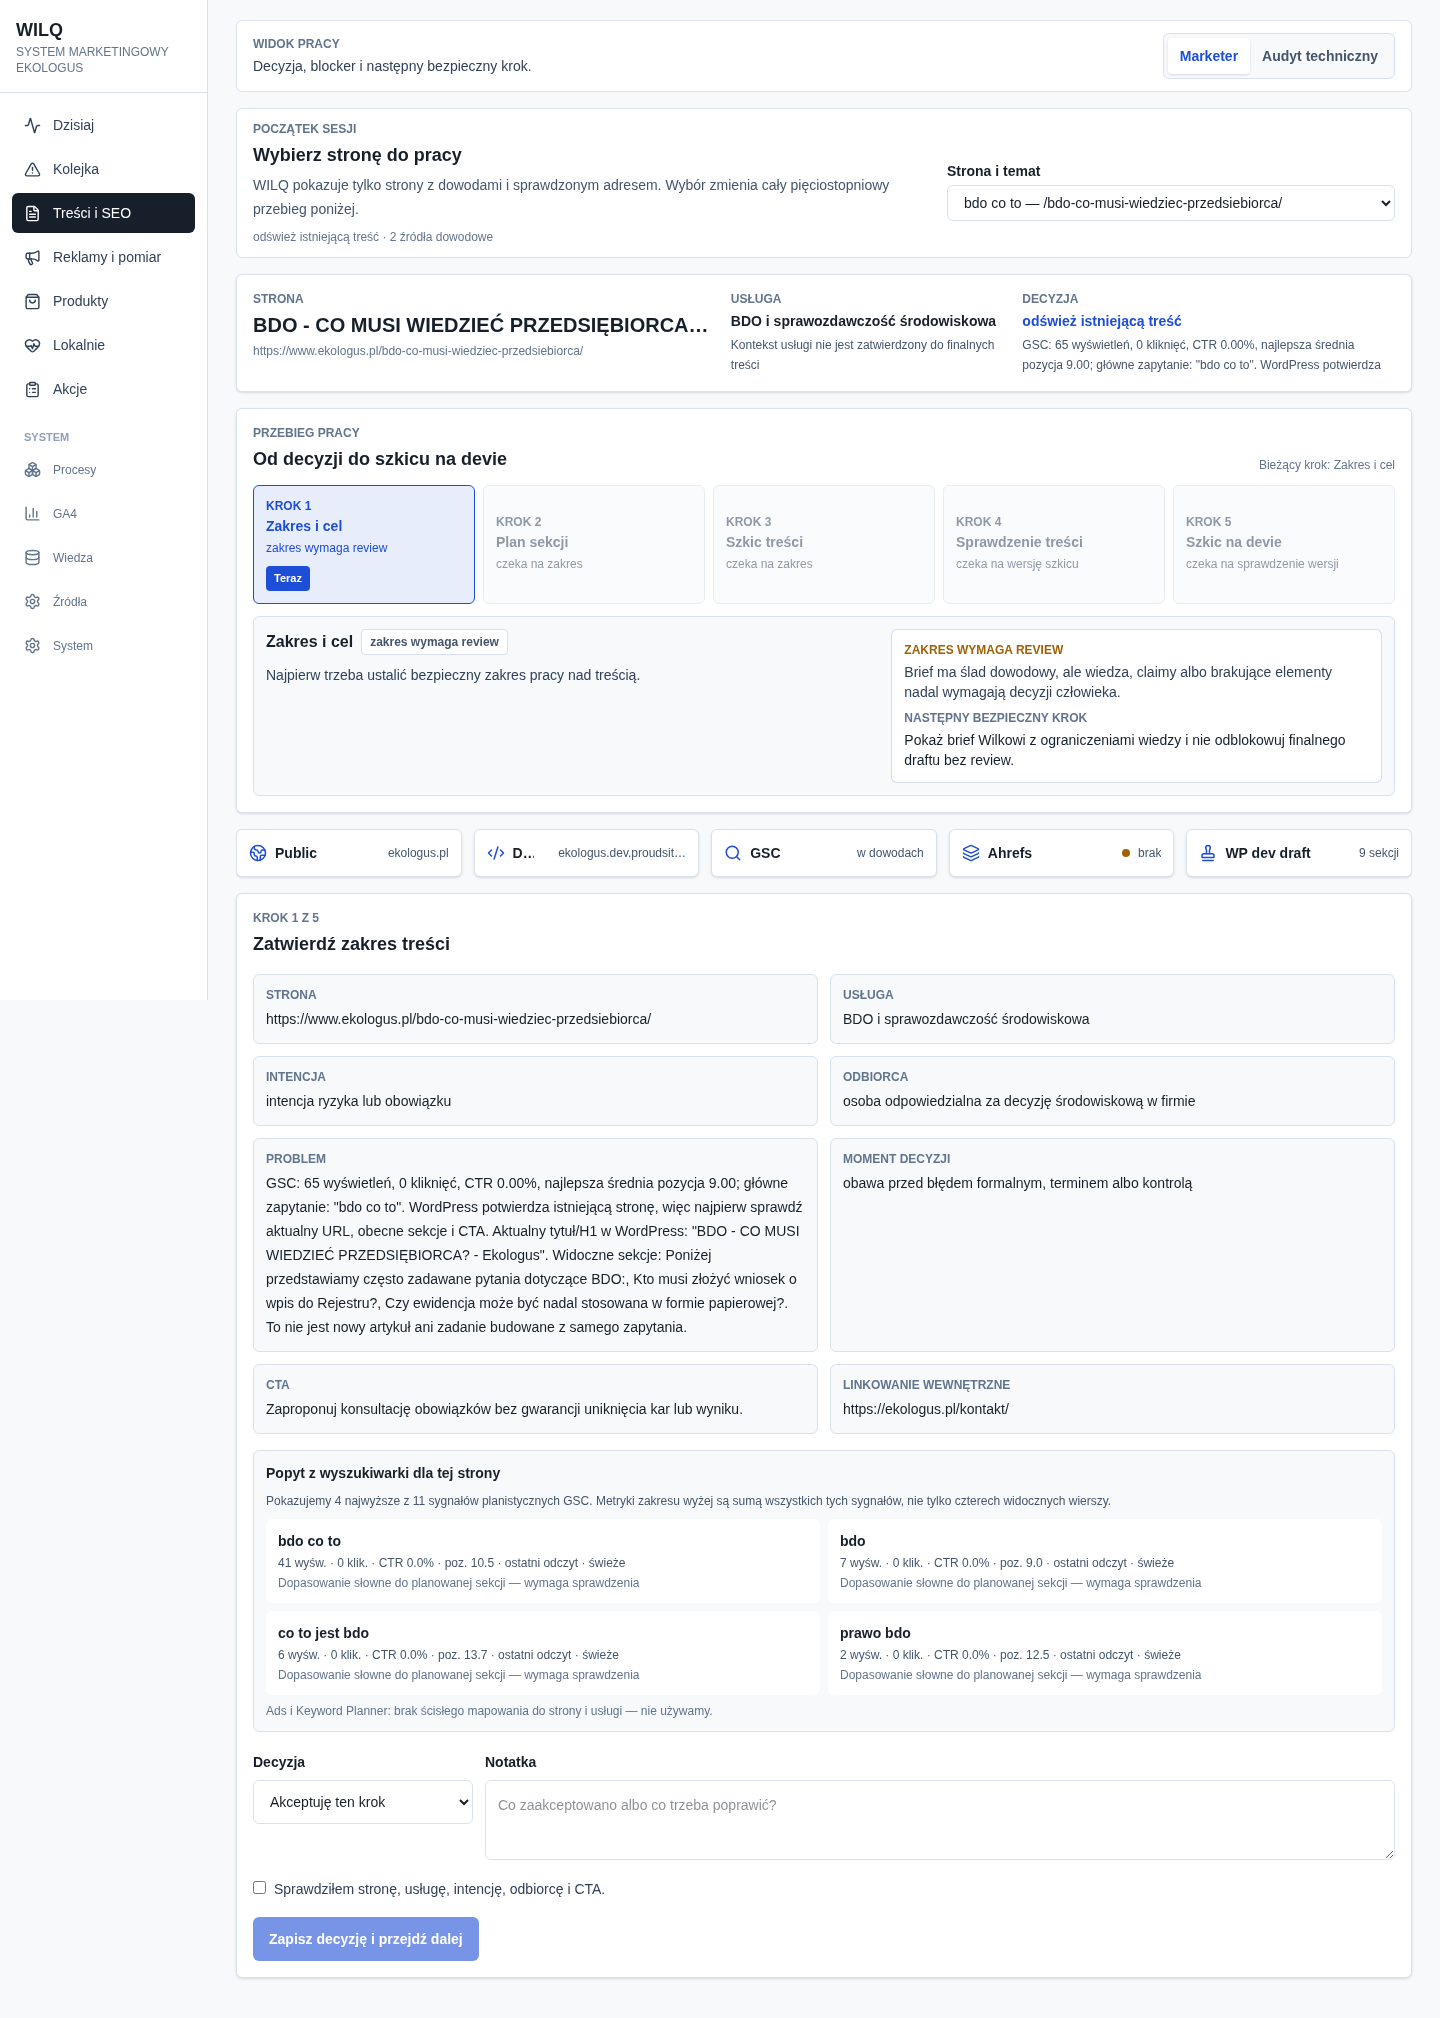
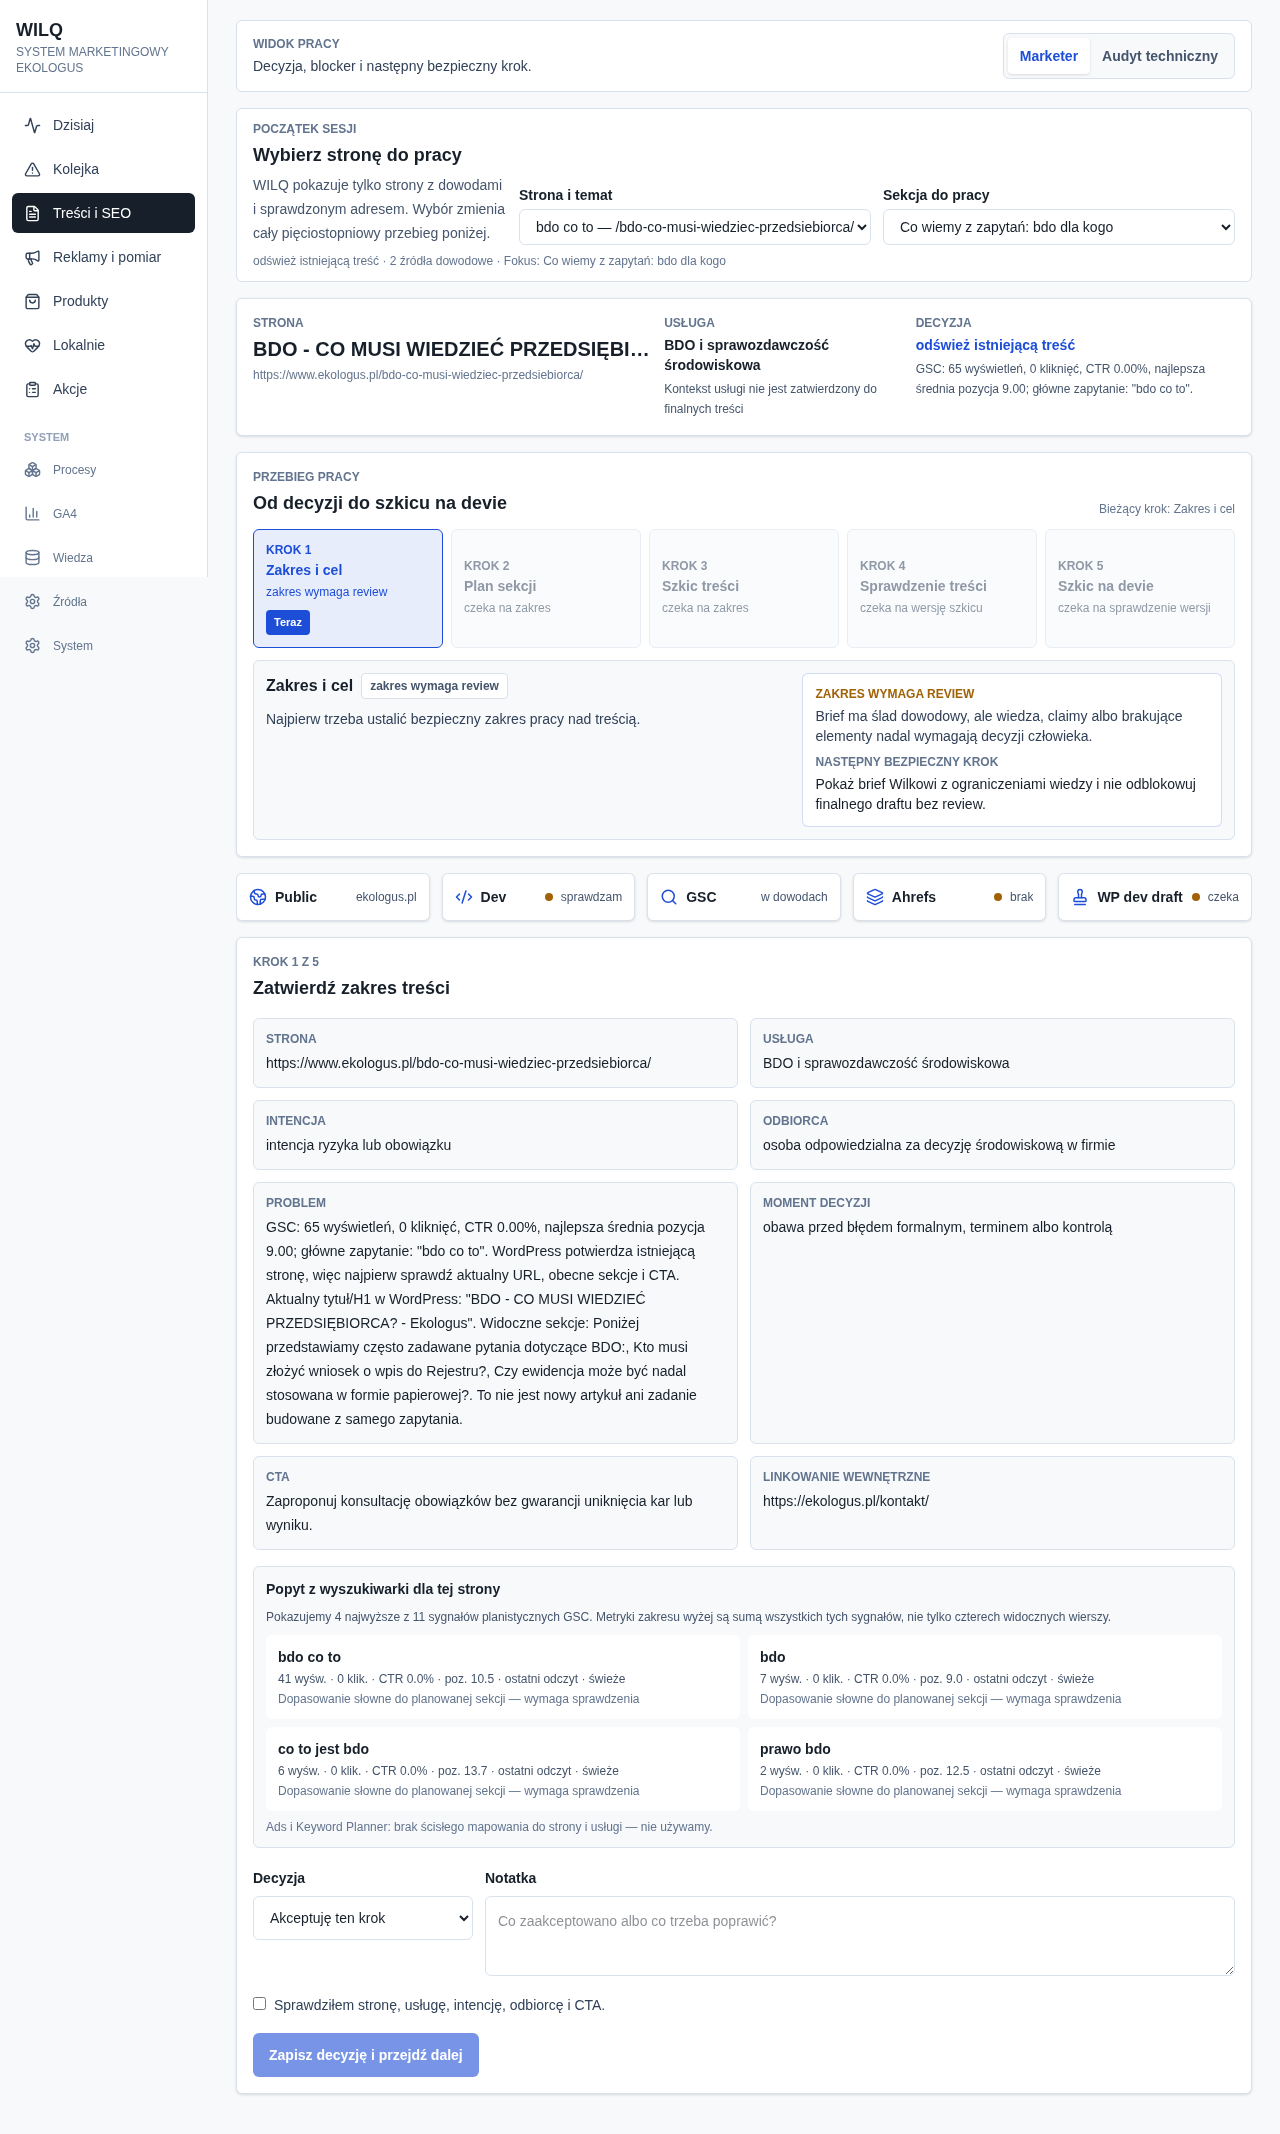
feat(content): bind session to exact section

diff --git a/apps/dashboard/src/routes/ContentWorkflowSurface.tsx b/apps/dashboard/src/routes/ContentWorkflowSurface.tsx
@@ -63,6 +63,9 @@ type CodexProposalMutationInput = {
   baseRevision: ContentDraftRevision;
   selectedSectionHeadings: string[];
 };
+type ContentPlanningSections = NonNullable<
+  ContentWorkflowSnapshot["planningWorkspace"]
+>["proposal"]["sections"];
 export function ContentWorkflowSurface() {
   const navigate = useNavigate();
   const routeSearch = useRouterState({ select: (state) => state.location.search });
@@ -74,7 +77,12 @@ export function ContentWorkflowSurface() {
     setSelectedWorkItemId(workItemId);
     void navigate({
       to: "/content-workflow",
-      search: (previous) => ({ ...previous, work_item_id: workItemId }),
+      search: (previous) => ({
+        ...previous,
+        work_item_id: workItemId,
+        section_heading: undefined,
+        planning_digest: undefined
+      }),
       replace: true
     });
   };
@@ -105,8 +113,12 @@ export function ContentWorkflowSurface() {
 }
 
 function contentWorkItemIdFromSearch(search: unknown) {
+  return stringFromSearch(search, "work_item_id");
+}
+
+function stringFromSearch(search: unknown, key: string) {
   if (typeof search !== "object" || search === null) return null;
-  const value = Reflect.get(search, "work_item_id");
+  const value = Reflect.get(search, key);
   return typeof value === "string" && value ? value : null;
 }
 
@@ -387,6 +399,8 @@ function ContentWorkflowMarketerJourney({
   return (
     <div data-testid="content-workflow-marketer-journey">
       <ContentSessionPicker
+        planningDigest={data.planningWorkspace?.proposal.planning_digest ?? null}
+        planningSections={data.planningWorkspace?.proposal.sections ?? []}
         queue={queue}
         selectedWorkItemId={selectedWorkItemId}
         onSelectWorkItem={onSelectWorkItem}
@@ -412,21 +426,35 @@ function ContentWorkflowMarketerJourney({
 }
 
 function ContentSessionPicker({
+  planningDigest,
+  planningSections,
   queue,
   selectedWorkItemId,
   onSelectWorkItem
 }: {
+  planningDigest: string | null;
+  planningSections: ContentPlanningSections;
   queue: ContentWorkItemQueueResponse;
   selectedWorkItemId: string;
   onSelectWorkItem: (workItemId: string) => void;
 }) {
+  const navigate = useNavigate();
+  const routeSearch = useRouterState({ select: (state) => state.location.search });
+  const requestedSectionHeading = stringFromSearch(routeSearch, "section_heading");
+  const requestedPlanningDigest = stringFromSearch(routeSearch, "planning_digest");
   const candidates = queue.candidates.filter(
     (candidate) => candidate.recommended_mode !== "block"
   );
   const selected = candidates.find(
     (candidate) => candidate.work_item_id === selectedWorkItemId
   );
-  if (!selected || candidates.length < 2) return null;
+  const selectedSection =
+    (requestedPlanningDigest === planningDigest
+      ? planningSections.find((section) => section.heading === requestedSectionHeading)
+      : null) ??
+    planningSections[0] ??
+    null;
+  if (!selected) return null;
 
   return (
     <section
@@ -434,7 +462,7 @@ function ContentSessionPicker({
       className="mb-3 rounded-md border border-line bg-white px-3 py-3 sm:mb-4 sm:px-4"
       data-testid="content-session-picker"
     >
-      <div className="grid gap-3 lg:grid-cols-[minmax(0,1fr)_minmax(18rem,28rem)] lg:items-end">
+      <div className="grid gap-3 lg:grid-cols-[minmax(0,1fr)_minmax(15rem,22rem)_minmax(15rem,22rem)] lg:items-end">
         <div>
           <p className="text-xs font-semibold uppercase tracking-normal text-slate-500">
             Początek sesji
@@ -462,9 +490,38 @@ function ContentSessionPicker({
             ))}
           </select>
         </label>
+        {selectedSection ? (
+          <label className="text-sm font-semibold text-ink" htmlFor="content-session-section">
+            Sekcja do pracy
+            <select
+              id="content-session-section"
+              className="mt-1 w-full rounded-md border border-line bg-white px-3 py-2 font-normal text-ink"
+              value={selectedSection.heading}
+              onChange={(event) => {
+                void navigate({
+                  to: "/content-workflow",
+                  search: (previous) => ({
+                    ...previous,
+                    work_item_id: selectedWorkItemId,
+                    section_heading: event.target.value,
+                    planning_digest: planningDigest
+                  }),
+                  replace: true
+                });
+              }}
+            >
+              {planningSections.map((section) => (
+                <option key={section.heading} value={section.heading}>
+                  {section.heading}
+                </option>
+              ))}
+            </select>
+          </label>
+        ) : null}
       </div>
       <p className="mt-2 text-xs text-slate-500">
         {selected.recommended_mode_label} · {selected.evidence_ids.length} źródła dowodowe
+        {selectedSection ? ` · Fokus: ${selectedSection.heading}` : ""}
       </p>
     </section>
   );

diff --git a/apps/dashboard/src/routes/ContentWorkflowSurface.test.tsx b/apps/dashboard/src/routes/ContentWorkflowSurface.test.tsx
@@ -178,7 +178,7 @@ describe("ContentWorkflowSurface", () => {
 
     expect(document.querySelector('[data-active-workspace="section_map"]')).toBeInTheDocument();
     expect(screen.getByText("Zatwierdź plan sekcji")).toBeInTheDocument();
-    expect(screen.getByText("Kogo dotyczy BDO")).toBeInTheDocument();
+    expect(screen.getByRole("heading", { name: "Kogo dotyczy BDO" })).toBeInTheDocument();
     expect(screen.queryByText("Sygnały i braki")).not.toBeInTheDocument();
     expect(screen.queryByText("Tekst sekcji do szkicu")).not.toBeInTheDocument();
     expect(within(taskMap).getByRole("button", { name: /Szkic treści/ })).toHaveAttribute(
@@ -225,7 +225,8 @@ describe("ContentWorkflowSurface", () => {
 
   it("lets the marketer switch the exact evidenced page before the workflow", async () => {
     const appRouter = createWilqRouter({
-      initialPath: "/content-workflow",
+      initialPath:
+        `/content-workflow?work_item_id=content_work_item_bdo&section_heading=Kogo%20dotyczy%20BDO&planning_digest=${"a".repeat(64)}`,
       defaultPendingMinMs: 0
     });
     render(
@@ -247,6 +248,8 @@ describe("ContentWorkflowSurface", () => {
     expect(Reflect.get(appRouter.state.location.search, "work_item_id")).toBe(
       "content_work_item_green_deal"
     );
+    expect(Reflect.get(appRouter.state.location.search, "section_heading")).toBeUndefined();
+    expect(Reflect.get(appRouter.state.location.search, "planning_digest")).toBeUndefined();
     expect(saveContentWorkItemPlanningReview).not.toHaveBeenCalled();
     expect(saveContentWorkItemDraftRevision).not.toHaveBeenCalled();
     expect(postContentWorkItemWordPressDraftExecution).not.toHaveBeenCalled();
@@ -267,6 +270,35 @@ describe("ContentWorkflowSurface", () => {
     expect(picker).toHaveValue("content_work_item_bdo");
     expect(getContentWorkItemSnapshot).toHaveBeenCalledWith("content_work_item_bdo");
     expect(getContentWorkItemSnapshot).not.toHaveBeenCalledWith("missing_work_item");
+  });
+
+  it("keeps the session focus on an exact section from the current plan", async () => {
+    const appRouter = createWilqRouter({
+      initialPath:
+        "/content-workflow?work_item_id=content_work_item_bdo&section_heading=Jak%20przygotowa%C4%87%20dokumenty&planning_digest=stale_plan",
+      defaultPendingMinMs: 0
+    });
+    render(
+      <App
+        appRouter={appRouter}
+        client={createWilqQueryClient({ defaultOptions: { queries: { retry: false } } })}
+      />
+    );
+
+    const sectionPicker = await screen.findByRole("combobox", { name: "Sekcja do pracy" });
+    expect(sectionPicker).toHaveValue("Kogo dotyczy BDO");
+
+    fireEvent.change(sectionPicker, { target: { value: "Jak przygotować dokumenty" } });
+
+    await waitFor(() =>
+      expect(Reflect.get(appRouter.state.location.search, "section_heading")).toBe(
+        "Jak przygotować dokumenty"
+      )
+    );
+    expect(Reflect.get(appRouter.state.location.search, "planning_digest")).toBe("a".repeat(64));
+    expect(screen.getByText("Fokus: Jak przygotować dokumenty", { exact: false })).toBeTruthy();
+    expect(saveContentWorkItemPlanningReview).not.toHaveBeenCalled();
+    expect(saveContentWorkItemDraftRevision).not.toHaveBeenCalled();
   });
 
   it("records scope review and resumes on the section map without a wall of panels", async () => {

diff --git a/docs/CONTEXT.md b/docs/CONTEXT.md
@@ -113,15 +113,18 @@ claimu prawnego/obowiązkowego.
 Aktywny graf:
 
 - `wilq-seo-1oa.36` — epic pełnego marketer-grade Content Ops;
-- `wilq-seo-1oa.36.1` — pierwszy slice: API-owned wybór usługi, strony i sekcji
-  z BDO jako realnym review-only case;
-- `wilq-seo-1oa.35` — jeden folder demonstracyjny; artefakt przekazania, nie
-  substytut ukończonego content loopu.
+- `wilq-seo-1oa.36.1` — pierwszy slice API-owned wyboru usługi, strony i sekcji
+  jest technicznie domknięty na BDO;
+- `wilq-seo-1oa.35` — zamknięty folder demonstracyjny; artefakt przekazania,
+  nie substytut ukończonego content loopu.
 
 ## Aktualny dowód contentu
 
 - `/content-workflow` jest jedynym głównym entrypointem.
 - Bieżący selected work item dotyczy strony BDO i jest na kroku `scope`.
+- Exact sekcja `Co wiemy z zapytań: bdo dla kogo` jest wybranym focusem sesji
+  i przeżywa reload tylko z pasującym `planning_digest`; zmieniony plan
+  unieważnia stary fokus. Wybór nie zapisuje planning review ani approval.
 - Exact snapshot obejmuje 11 page-scoped wierszy GSC; bieżąca karta zakresu
   agreguje 65 wyświetleń, 0 kliknięć i najlepszą średnią pozycję 9,00. UI i
   eval pokazują cztery najwyższe wiersze oraz pełną liczność.

diff --git a/docs/goals/001-goal.md b/docs/goals/001-goal.md
@@ -56,8 +56,8 @@ Beads jest jedynym operacyjnym grafem zadań. Bieżąca kolejność:
 
 1. `wilq-seo-1oa.36` — doprowadzić Content Ops do pełnego marketer-grade
    Better BDOS loopu. Pierwszy slice `wilq-seo-1oa.36.1` daje API-owned wybór
-   exact usługi i strony oraz pokazuje plan sekcji; wybór exact sekcji pozostaje
-   otwartą częścią tego feature. BDO jest pierwszym realnym review-only case.
+   exact usługi, strony i sekcji. BDO jest pierwszym realnym review-only case;
+   następnym zakresem jest paczka tekstowa po decyzjach scope/section map.
 2. `wilq-seo-lt1` — po otrzymaniu reviewed sources skompilować owner-reviewed
    service/CTA/claim/evidence cards. To nadal jest bramka ownera, ale nie
    blokuje repo-local ergonomii, paczki review ani pracy na jawnie
@@ -68,9 +68,8 @@ Beads jest jedynym operacyjnym grafem zadań. Bieżąca kolejność:
    zapisać jawny defer. Techniczna implementacja Goal 006 jest już wykonana.
 
 Nie ma zgody na losowy cleanup dla utrzymania ruchu. Jest natomiast
-potwierdzona praca repo-local: realny proposal otrzymał `needs_changes`,
-workspace nie pozwala jeszcze wybrać exact sekcji, a paczka tekstu dla
-marketera jeszcze nie istnieje.
+potwierdzona praca repo-local: realny proposal otrzymał `needs_changes`, a
+paczka tekstu dla marketera jeszcze nie istnieje.
 
 Po każdym zamkniętym slice odczytaj ponownie `bd ready --json` i
 `bd list --status=open --json`. Nie wracaj do zamkniętych technicznych epików

diff --git a/docs/PROGRESS.md b/docs/PROGRESS.md
@@ -43,8 +43,12 @@ i lokalnych katalogach `.local-lab/proof/`; ten plik nie jest kroniką.
   exact strona BDO jest pierwszą wykonalną pracą. Snapshot wiąże ją z kartą
   `ekologus_service_bdo_reporting`, 11 wierszami GSC, aktualnym WordPress
   inventory i 0 zgadywanych Ads/Planner rows. Marketer mode ma zwarty picker,
-  a exact `work_item_id` pozostaje w URL po reloadzie. Scope i section map nadal
-  wymagają człowieka; karta BDO pozostaje `source_backed_review_required`.
+  a exact `work_item_id`, API-owned nagłówek sekcji i pasujący
+  `planning_digest` pozostają w URL po reloadzie. Nieznany work item, nagłówek
+  lub stale digest bezpiecznie wraca do istniejącej opcji bez requestu do
+  obcego snapshotu. Wybór sekcji jest tylko fokusem sesji:
+  scope i section map nadal wymagają człowieka, a karta BDO pozostaje
+  `source_backed_review_required`.
 - Live homepage UAT ujawnił dwie luki w prezentacji popytu. Query GSC
   dziedziczyły wszystkie trzy
   sekcje tylko dlatego, że facts i sekcje współdzieliły refresh-level evidence

diff --git a/docs/dashboard-state.md b/docs/dashboard-state.md
@@ -102,7 +102,7 @@ Readiness is a product/usefulness estimate, not a test pass rate.
 | --- | ---: | --- | --- | --- | --- | --- |
 | `/command-center` | 70% | Daily priority, blockers and source freshness remain useful. Expired daily-check dependencies no longer make an operator wait for staggered Command Center/GA4/content rebuilds: one background prewarm starts and the existing typed blocker returns in `0.003 s`; full follow-up reads measured `0.018/0.020/0.018 s` with unchanged proof projection. Fresh browser smoke passes 1/1 in 3.2 s. | Existing `GET /api/dashboard/command-center`, `GET /api/marketing/daily-check`, current read caches and `getCommandCenter()`; no new endpoint. | Daily queue, blocked claims, source freshness and honest in-progress state. | Still needs stronger routing into one concrete work item; prewarm never means source refresh or recommendation readiness. | Keep as cockpit; preserve explicit invalidation and typed blocker, then route into content workbench. |
 | `/opportunities` | 50% | Useful as registry but overlaps with Command Center and Actions. | `GET /api/opportunities`, `getOpportunities()` | Opportunity list with evidence/action links. | Duplicates "Kolejka" mental model. | Eventually merge into one decision/action queue; avoid new UI work here now. |
-| `/content-workflow` | 7/10 operator workflow; 5/10 real text quality; 8/10 handoff safety | Primary five-step "Treści i SEO" journey now starts with a compact exact-page picker in marketer mode. Content diagnostics ranks the complete evidenced GSC+WordPress page set before the cross-domain daily-queue limit, so live BDO is selectable instead of being silently dropped. The selected work item is deep-linked in `work_item_id` and survives reload; an unknown/stale ID falls back to an evidenced queue item without requesting the invalid snapshot. The BDO snapshot binds its exact canonical URL, the review-required BDO service card, 11 current GSC rows and the existing section inventory; Ads/Planner remain empty without exact mapping. | Existing `GET /api/content/work-items/queue`, exact snapshot/planning/revision/Codex/ActionObject seams and typed frontend parser; no new endpoint or second runtime. The queue owns eligible pages and the URL stores only the selected existing work-item ID. | Focused backend falsifiers prove evidenced pages are ranked independently of the daily queue while its 24-item/domain-floor balance remains intact. Focused React proof switches exact work item, rejects an unknown deep-link before snapshot GET and performs no writes. Live restart/browser proof opens BDO by default, shows the five steps and reloads another selected exact item without console errors. Content-operator smoke exposes four real query rows and its non-interactive eval passes at 9/10. | BDO knowledge remains `source_backed_review_required`; scope and section map need a human decision. Real generated text remains 5/10, CTA/internal links need proof, and no marketer-reviewed text packet exists yet. | Obtain the scope/section-map decision for exact BDO, then run the existing revision/Codex/quality seams into a review-only text packet with before/after and three reviewer roles. |
+| `/content-workflow` | 7/10 operator workflow; 5/10 real text quality; 8/10 handoff safety | Primary five-step "Treści i SEO" journey now starts with compact exact-page and exact-section pickers in marketer mode. Content diagnostics ranks the complete evidenced GSC+WordPress page set before the cross-domain daily-queue limit, so live BDO is selectable instead of being silently dropped. The selected work item and API-owned section heading are deep-linked with the exact `planning_digest`; unknown values or a changed plan fall back to an evidenced queue/section option without requesting an invalid snapshot or silently rebinding the same heading. Section selection is visibly a session focus, not planning approval. The BDO snapshot binds its exact canonical URL, the review-required BDO service card, 11 current GSC rows and the existing section inventory; Ads/Planner remain empty without exact mapping. | Existing `GET /api/content/work-items/queue`, exact snapshot/planning/revision/Codex/ActionObject seams and frontend runtime parsers over unknown search input; no new endpoint or second runtime. The queue and exact snapshot own the allowed page/section options. | Focused backend falsifiers prove evidenced pages are ranked independently of the daily queue while its 24-item/domain-floor balance remains intact. Focused React proof switches exact work item/section, clears stale section state across pages, rejects unknown/stale plan deep-links and performs no writes. Live browser proof opens BDO with `Co wiemy z zapytań: bdo dla kogo` selected under the current digest, shows the five steps and leaves planning submit disabled. Dashboard is 168/168 and TypeScript-clean. Content-operator smoke exposes four real query rows and its non-interactive eval passes at 9/10. | BDO knowledge remains `source_backed_review_required`; scope and section map need a human decision. Real generated text remains 5/10, CTA/internal links need proof, and no marketer-reviewed text packet exists yet. | Obtain the scope/section-map decision for exact BDO, then run the existing revision/Codex/quality seams into a review-only text packet with before/after and three reviewer roles. |
 | `/content-inventory` | 20% | Hidden technical placeholder. Inventory remains an input to `/content-workflow`, not a separate writing cockpit. | currently generic/compact route; check `surfaceRegistry.ts` before adding code | Concept is needed inside content workbench. | Not a real marketer view yet. | Do not build separate cockpit; expose inventory inside content workbench. |
 | `/service-profile` | 55% | Useful for owner/claim review, not daily writing screen. Its selected-card policy is now projected into the existing content work-item snapshot. | `GET /api/content/service-profile` is the source assembly; `GET /api/content/work-items/{id}/snapshot` projects its compact typed context; no frontend join. | Services, claim policy, source status and review-required data. | Not enough approved-current production depth; can overwhelm writer. | Keep owner review here; preserve the compact work-item projection instead of duplicating a second content view. |
 | `/knowledge` | 65% | Admin/review support surface with current "Wiedza" IA. Operating-map remains the only initial read; cards/playbooks defer until disclosure. `list_workflows()` now uses only command-center decisions; standalone map core is `4.878 s`. Managed runtime starts a non-blocking map prewarm after readiness; first/second warmed HTTP reads measured `0.003550 s` / `0.003175 s`. First decision/blockers render in the browser proof; focused current Playwright passes 1/1 in 2.7 s. | `GET /api/knowledge/cards`, `/api/knowledge/playbooks`, `/api/knowledge/operating-map`; `build_knowledge_operating_map_cached()` and existing disclosure controls | Source lineage and claim review. | Prewarm stability must be checked on subsequent restarts; live knowledge/source freshness remains separate from cache latency. | Keep prewarm fail-open and non-blocking; do not re-enable concurrent subordinate reads. |